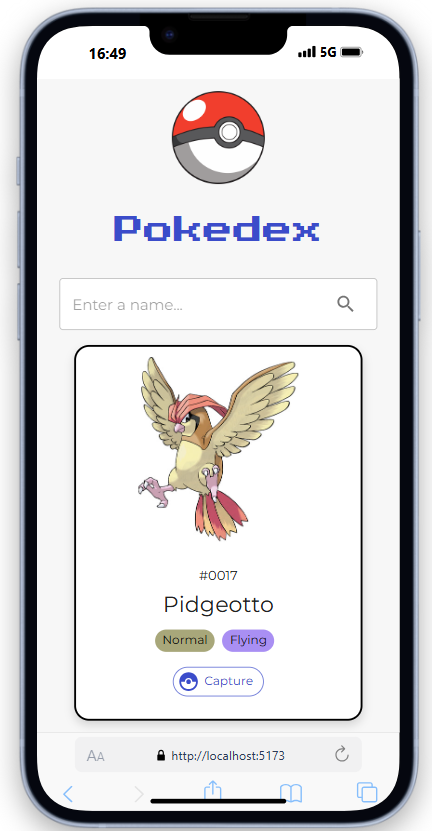
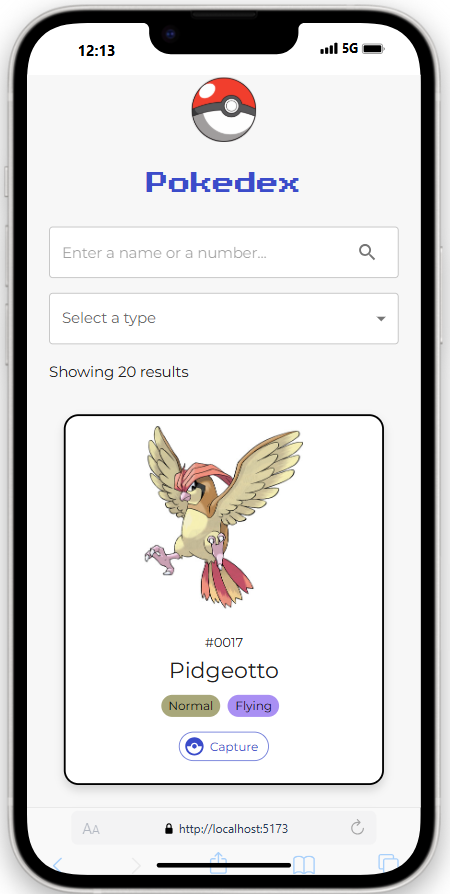
update read me

Changed region(s): [[0.0, 0.0, 0.9931, 1.0], [0.7824, 0.2708, 0.8426, 0.3008], [0.1505, 0.2708, 0.2106, 0.3008]]

diff --git a/README.md b/README.md
@@ -1,19 +1,17 @@
-# Pokedex 
+# Pokedex
 > Project under construction
 
 This project is a **full-stack application** built with `NodeJS, Express, MongoDB, Mongoose, GraphQL, React and Mui`.
 The purpose of this project is to serve as a practice to get familiar with `GraphQL`.
 
 ## Features
-### User can view all pokemon cards and search by name
+### User can view all pokemon cards
 <img src="./docs/pokedex.png" alt="pokedex" height="500"><img src="./docs/mobile-pokedex.png" alt="mobile pokedex" height="500">
 
+### User can search pokemons by name, number or type
+<img src="./docs/pokedex-filter.png" alt="pokedex" height="500">
+
 ### Ongoing improvements
-- [x] ~~Frontend - Main page layout to be done~~
-- [x] ~~Add functionality to capture a pokemon~~
-- [x] ~~Add functionality to search a pokemon by name~~
-- [x] ~~Add functionality to search by pokemon type~~
-- [x] ~~Make a change to keep pokemon ~~id~~ Number not id, or idNumber~~
 - [ ] Add pagination component
 
 ## Backend
